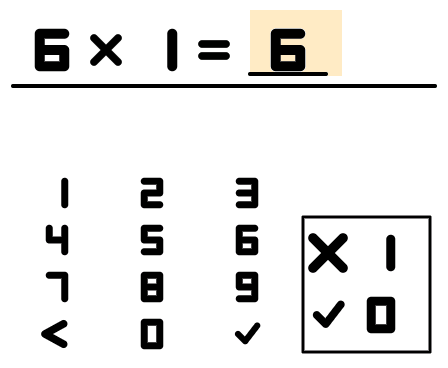
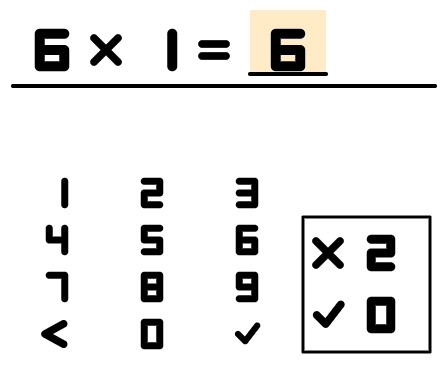
tables: the caret was hiding in the digit's own ink, and the wrong counter only heard half of what she typed
Five items from the owner testing the flashed board, each taken back to
evidence before being touched.

1. "The blinking cursor doesn't move when I type some numbers." It was
   moving - cursor_x_for_len(1) computed a real, distinct x - but a single
   typed digit renders CENTRED in the answer slot (question_slot_cx(), the
   same centre redraw_answer() draws it at), not left-aligned against the
   slot's own start. Measured: a centred "4" inks [x0+21, x0+54]; the old
   x0+QDIGIT_W+6 formula placed the caret at x0+42, squarely inside that
   span. The caret was landing inside the stroke it was supposedly sitting
   after, so nothing looked different. Fixed to follow the digit's actual
   right edge (question_slot_cx() + QDIGIT_W/2 + 6); measured after, the
   caret sits at x0+62, 8px clear of the digit's own ink.

2. "The highlighting of a correct answer reveals it's not centred
   properly." Measured on a resolved "6": the tint wash spanned the full
   ANSWER_BOX_W (92px, centre x0+45.5) while the digit centred on the
   narrower Q_SLOT_W reference (76px, centre x0+37.5) - an 8px bias. The
   underlying centring was never wrong; the wash disagreed with it. Fixed
   by tinting only Q_SLOT_W and leaving the cursor-clearance strip past it
   plain white regardless of tint - measured after, wash centre and digit
   centre both land on x0+37.5, 0px offset.

3. "The X and check icons aren't the same size." They shared one reach
[…]

Changed region(s): [[0.7188, 0.0299, 0.7812, 0.2092], [0.6875, 0.6277, 0.7812, 0.7473], [0.8125, 0.6277, 0.9062, 0.7473]]

diff --git a/devices/rp2350-amoled-1.8/emulator/wasm/tests/feature-tables.ts b/devices/rp2350-amoled-1.8/emulator/wasm/tests/feature-tables.ts
@@ -113,6 +113,20 @@ function grayAt(fb: Uint8Array, lx: number, ly: number): number {
   return ((v >> 5) & 0x3f) << 2;
 }
 
+// Byte-identical over a rect, at the grayscale resolution grayAt reads -
+// used both to prove a redraw left a region untouched and (the wrong-count
+// worked example below) to prove two DIFFERENT sequences that should land
+// on the same displayed value actually render pixel-for-pixel the same,
+// without needing to OCR a rendered digit.
+function rectUnchanged(a: Uint8Array, b: Uint8Array, x0: number, y0: number, w: number, h: number): boolean {
+  for (let ly = y0; ly < y0 + h; ly++) {
+    for (let lx = x0; lx < x0 + w; lx++) {
+      if (grayAt(a, lx, ly) !== grayAt(b, lx, ly)) return false;
+    }
+  }
+  return true;
+}
+
 const STEP_MS = 16; // matches app.h's dtMs convention used elsewhere in this suite
 let clock = 0;
 
@@ -311,6 +325,105 @@ async function main() {
       sawDark && sawLight, `sawDark=${sawDark} sawLight=${sawLight}`);
   }
 
+  // ---- after ONE digit, the caret sits clearly right of the digit's own
+  // ink, not inside it -------------------------------------------------------
+  //
+  // The owner's bug report: "the blinking cursor doesn't move when I type
+  // some numbers". It DID move (cursor_x_for_len(1) is a real x, distinct
+  // from cursor_x_for_len(0)) - it just landed inside the single typed
+  // digit's own centred ink, so nothing looked different. Candidate x's
+  // mirror CURSOR_X_CANDIDATES above (narrow/wide factor), computed the
+  // same way cursor_x_for_len(1) now is: question_slot_cx() + QDIGIT_W/2 + 6.
+  {
+    const CURSOR_X_LEN1_CANDIDATES = [
+      Q_SLOT_X0_NARROW + Q2W / 2 + QDIGIT_W / 2 + 6,
+      Q_SLOT_X0_WIDE + Q2W / 2 + QDIGIT_W / 2 + 6,
+    ];
+    const dev = await loadDevice();
+    await enterTables(dev, APP_TABLES);
+    pressCell(dev, digitCell(4));
+    let sawCursor = false;
+    for (let i = 0; i < 40; i++) {
+      clock += 16;
+      dev.tick(clock);
+      const fb = dev.fb();
+      for (const cx of CURSOR_X_LEN1_CANDIDATES) {
+        for (let ly = QROW_CY - 17; ly < QROW_CY + 17; ly++) {
+          if (grayAt(fb, cx, ly) < 180) sawCursor = true;
+        }
+      }
+    }
+    check("after one digit, the caret is visible clearly right of the digit's own ink", sawCursor,
+      `checked x in [${CURSOR_X_LEN1_CANDIDATES.join(",")}]`);
+  }
+
+  // ---- a resolved answer's highlight is actually centred on the digit ----
+  //
+  // The owner's bug report: "the highlighting of a correct answer reveals
+  // it's not centred properly". Measured before this fix: the tint wash
+  // spanned the full ANSWER_BOX_W (92px, x0..x0+91, centre x0+45.5) while
+  // the digit centred on the narrower Q_SLOT_W (76px) reference (centre
+  // x0+37.5) - an 8px bias. Sampling a wash-only row (above the digit's own
+  // ink) and the digit's own ink row and comparing their midpoints is a
+  // direct measurement of that bias, not just "some tint appeared".
+  {
+    const dev = await loadDevice();
+    await enterTables(dev, APP_TABLES);
+    typeDigits(dev, [6]); // the deterministic first question is 6 x 1 = 6
+    pressCell(dev, CELL_CHECK);
+    const fb = dev.fb();
+    function span(pred: (x: number) => boolean, xMin: number, xMax: number): [number, number] {
+      let first = -1, last = -1;
+      for (let lx = xMin; lx < xMax; lx++) { if (pred(lx)) { if (first < 0) first = lx; last = lx; } }
+      return [first, last];
+    }
+    const inkRow = QROW_CY;
+    const washRow = QROW_CY - 18; // above the digit's own ink, still inside the tinted box
+    const [inkL, inkR] = span((lx) => grayAt(fb, lx, inkRow) < 20, 200, 400);
+    const [washL, washR] = span((lx) => grayAt(fb, lx, washRow) < 248, 200, 400);
+    check("the resolved digit's own ink was found", inkL >= 0, `span [${inkL},${inkR}]`);
+    check("the tint wash was found", washL >= 0, `span [${washL},${washR}]`);
+    if (inkL >= 0 && washL >= 0) {
+      const inkMid = (inkL + inkR) / 2, washMid = (washL + washR) / 2;
+      const offset = Math.abs(inkMid - washMid);
+      check("the tint wash is centred on the digit it highlights (within 2px)", offset <= 2,
+        `ink centre ${inkMid}, wash centre ${washMid}, offset ${offset}px`);
+    }
+  }
+
+  // ---- worked example: the wrong counter counts every wrong SUBMISSION,
+  // not just the final give-up -----------------------------------------------
+  //
+  // The owner's bug report: "the count of wrong is not correct (doesn't add
+  // up)". Worked example, before this fix: type wrong (retry state) -
+  // wrongCount stays 0, no redraw. Type wrong again (gives up) - wrongCount
+  // becomes 1. Two actual wrong submissions, counter reads 1 - an asymmetry
+  // against correctCount, which already increments on every successful
+  // submission regardless of which attempt it lands on. After this fix:
+  // wrongCount becomes 1 on the FIRST wrong submission already (checked by
+  // comparing the counter row's own pixels right after entry against right
+  // after that first wrong submission - they must differ, which they did
+  // not before), then 2 on the second (same comparison against the
+  // first-wrong state).
+  {
+    const dev = await loadDevice();
+    await enterTables(dev, APP_TABLES);
+    const atEntry = dev.fb(); // wrong counter reads 0
+    typeDigits(dev, [9, 9]);
+    pressCell(dev, CELL_CHECK); // FIRST wrong attempt -> PHASE_WRONG_RETRY, not a give-up
+    const afterFirstWrong = dev.fb();
+    const changedAfterFirst = !rectUnchanged(atEntry, afterFirstWrong, COUNTER_ROW_X0, COUNTERS_Y0, COUNTER_ROW_W, COUNTER_ROW_H);
+    check("the wrong counter changes on the FIRST wrong attempt already, not only on the final give-up",
+      changedAfterFirst);
+
+    typeDigits(dev, [9, 9]);
+    pressCell(dev, CELL_CHECK); // SECOND wrong attempt -> gives up
+    const afterSecondWrong = dev.fb();
+    const changedAfterSecond = !rectUnchanged(afterFirstWrong, afterSecondWrong, COUNTER_ROW_X0, COUNTERS_Y0, COUNTER_ROW_W, COUNTER_ROW_H);
+    check("the wrong counter changes AGAIN on the second (give-up) attempt - two wrong submissions, two increments",
+      changedAfterSecond);
+  }
+
   // ---- the full-width rule under the question band stays UNBROKEN, even
   // after a keystroke redraws the answer box on top of the same row -------
   //
@@ -342,23 +455,13 @@ async function main() {
       gapAfter === -1, `first gap at x=${gapAfter}`);
   }
 
-  // ---- the wrong counter only counts a FINAL give-up, not every question
-  // resolution - a correct answer must not touch it -----------------------
+  // ---- a CORRECT answer never touches the wrong counter -------------------
   //
-  // The owner's drawing shows two explicit lines, a check and a cross;
-  // this app now counts them as "correct" and "wrong" rather than the
-  // earlier "attempted" (which incremented on EVERY resolution, right or
-  // wrong). Comparing the WRONG row's own pixels before and after a
-  // correct answer is a direct check of that semantic: byte-identical
-  // means a correct answer never touched it.
-  function rectUnchanged(a: Uint8Array, b: Uint8Array, x0: number, y0: number, w: number, h: number): boolean {
-    for (let ly = y0; ly < y0 + h; ly++) {
-      for (let lx = x0; lx < x0 + w; lx++) {
-        if (grayAt(a, lx, ly) !== grayAt(b, lx, ly)) return false;
-      }
-    }
-    return true;
-  }
+  // The owner's drawing shows two explicit lines, a check and a cross; this
+  // app counts them as "correct" and "wrong". A correct submission must
+  // never increment or redraw the wrong row, whichever attempt it lands
+  // on - comparing the WRONG row's own pixels before and after a correct
+  // answer is a direct check of that: byte-identical means untouched.
   {
     const probe = await loadDevice();
     await enterTables(probe, APP_TABLES);

diff --git a/devices/rp2350-amoled-1.8/firmware/apps/tables.c b/devices/rp2350-amoled-1.8/firmware/apps/tables.c
@@ -444,6 +444,18 @@ static uint16_t tint_wrong(void) { return rgb565(250, 232, 196); } // pale amber
 // at. W/T at or above 3 here keeps clear of it.
 #define COUNTER_ICON_CX_OFF 20
 #define COUNTER_ICON_R 15.0f
+// The cross needs its OWN reach, not COUNTER_ICON_R: draw_icon_multiply and
+// draw_icon_check both take a "reach" parameter, but it means a different
+// fraction of each glyph's own bounding box, so the SAME reach does not
+// produce the SAME apparent size. At reach=15, the check's own stroke
+// bounding box (including its t=0.26*reach thickness) is about 32x27px;
+// the cross's is a symmetric X whose bounding box (2*reach + 2*t, t =
+// 0.32*reach) is about 40x40px at the same reach - visibly bigger, exactly
+// the "the X and check aren't the same size" bug report. COUNTER_CROSS_R
+// is solved from the cross's own bounding-box formula for the width the
+// check already has at COUNTER_ICON_R (2*reach*1.32 = 31.8 => reach ~
+// 12.0), not copied from the check's reach.
+#define COUNTER_CROSS_R 12.0f
 #define COUNTER_NUM_CX_OFF 73
 #define COUNTER_DIGIT_W 30
 #define COUNTER_DIGIT_H 38
@@ -931,7 +943,19 @@ static void redraw_question(tables_state_t *s) {
 // which is correct for ink but would silently discard an actual tint.
 static void redraw_answer(tables_state_t *s, uint16_t tint, bool showCorrectValue) {
     int x0 = question_slot_x0(s), cx = question_slot_cx(s);
-    gfx_fill_rect_land(x0, ANSWER_BOX_Y0, ANSWER_BOX_W, ANSWER_BOX_H, tint);
+    // Tint only the visible slot (Q_SLOT_W, the same 76px reference every
+    // digit centres on below) - the extra Q_CURSOR_CLEARANCE strip past it
+    // is erase margin for the caret's own rightmost rest position, never
+    // part of the "answer box" a child reads, so it always stays plain
+    // white regardless of tint. Painting the whole ANSWER_BOX_W (92) with
+    // the tint made the wash's own visual centre sit 8px right of where
+    // every digit actually centres - measured on a resolved "6": wash
+    // spanned [x0, x0+91] (centre x0+45.5), the digit inked [x0+21,x0+54]
+    // (centre x0+37.5). That 8px bias is what "the highlight reveals it's
+    // not centred" was seeing - the underlying centring (on Q_SLOT_W) was
+    // always right, only the wash disagreed with it.
+    gfx_fill_rect_land(x0, ANSWER_BOX_Y0, Q_SLOT_W, ANSWER_BOX_H, tint);
+    gfx_fill_rect_land(x0 + Q_SLOT_W, ANSWER_BOX_Y0, ANSWER_BOX_W - Q_SLOT_W, ANSWER_BOX_H, PX_WHITE);
     if (showCorrectValue) {
         draw_number_lr(cx, QROW_CY, QDIGIT_W, QDIGIT_H, QDIGIT_T, fact_product(s->factIndex), false, PX_BLACK);
     } else if (s->answerLen > 0) {
@@ -975,7 +999,18 @@ static void redraw_answer(tables_state_t *s, uint16_t tint, bool showCorrectValu
 static int cursor_x_for_len(tables_state_t *s) {
     int x0 = question_slot_x0(s);
     if (s->answerLen <= 0) return x0 + 4;
-    if (s->answerLen == 1) return x0 + QDIGIT_W + 6;
+    if (s->answerLen == 1) {
+        // A single digit renders CENTRED in the whole slot (the same
+        // question_slot_cx() redraw_answer() draws it at), not left-aligned
+        // against x0 - the caret has to follow the digit's ACTUAL right
+        // edge or it lands inside the digit's own ink. Measured (owner's
+        // bug report, "the cursor doesn't move when I type some numbers"):
+        // a centred "4" inks [x0+21, x0+54]; the old x0+QDIGIT_W+6 (x0+42)
+        // sat squarely inside that span - the caret WAS moving, but into a
+        // spot the digit's own stroke covered, so nothing looked different.
+        int singleCx = x0 + Q2W / 2; // == question_slot_cx(s)
+        return singleCx + QDIGIT_W / 2 + 6;
+    }
     return x0 + Q_SLOT_W + 6;
 }
 
@@ -1042,7 +1077,7 @@ static void redraw_counter_row(int row, int iconKind, int value, bool padTo2) {
     int y = COUNTERS_Y0 + row * COUNTER_ROW_H;
     gfx_fill_rect_land(COUNTER_ROW_X0, y, COUNTER_ROW_W, COUNTER_ROW_H, PX_WHITE);
     int iconCx = COUNTER_ROW_X0 + COUNTER_ICON_CX_OFF, iconCy = y + COUNTER_ROW_H / 2;
-    if (iconKind == 0) draw_icon_cross(iconCx, iconCy, COUNTER_ICON_R, PX_BLACK);
+    if (iconKind == 0) draw_icon_cross(iconCx, iconCy, COUNTER_CROSS_R, PX_BLACK);
     else draw_icon_check(iconCx, iconCy, COUNTER_ICON_R, PX_BLACK);
     draw_number_lr(COUNTER_ROW_X0 + COUNTER_NUM_CX_OFF, iconCy, COUNTER_DIGIT_W, COUNTER_DIGIT_H,
                     COUNTER_DIGIT_T, value, padTo2, PX_BLACK);
@@ -1112,6 +1147,20 @@ static void resume_same_question(tables_state_t *s) {
 // a new question replaces it on screen. Getting it right on the retry
 // counts as correct: the point is recall, and a corrected recall is still
 // recall.
+//
+// THE WRONG COUNTER counts every wrong SUBMISSION now, not just the final
+// give-up - a real logic bug, not a display one, and an asymmetric one:
+// correctCount already incremented on every successful CHECK press,
+// whichever attempt it landed on, but wrongCount only incremented on the
+// SECOND wrong attempt, silently dropping the first. Worked example: wrong,
+// then wrong again (gives up) used to read wrongCount=1 for two actual
+// wrong submissions; wrong, then right on the retry used to read
+// correctCount=1, wrongCount=0 for one wrong submission and one right one -
+// two different counting units on the two counters is exactly what "the
+// count of wrong doesn't add up" was seeing. Both submissions increment
+// wrongCount now (redraw_wrong() called immediately on the retry too, not
+// only on give-up), so wrongCount+correctCount always equals the number of
+// CHECK presses that carried a digit, the same unit on both sides.
 static void resolve_answer(tables_state_t *s, uint32_t nowMs, bool correct) {
     s->attemptsOnQuestion++;
     if (correct) {
@@ -1123,6 +1172,8 @@ static void resolve_answer(tables_state_t *s, uint32_t nowMs, bool correct) {
         printf("tables: %d x %d = %d correct\r\n", fact_base(s->factIndex), fact_factor(s->factIndex), fact_product(s->factIndex));
         return;
     }
+    s->wrongCount++;
+    redraw_wrong(s);
     if (s->attemptsOnQuestion < 2) {
         redraw_answer(s, tint_wrong(), false); // her own wrong digits, on amber
         s->phase = PHASE_WRONG_RETRY;
@@ -1130,11 +1181,9 @@ static void resolve_answer(tables_state_t *s, uint32_t nowMs, bool correct) {
         printf("tables: wrong, retry\r\n");
         return;
     }
-    s->wrongCount++;
     redraw_answer(s, tint_wrong(), true); // reveal the correct product, still amber
     s->phase = PHASE_WRONG_REVEAL;
     s->phaseDeadlineMs = nowMs + REVEAL_MS;
-    redraw_wrong(s);
     printf("tables: %d x %d = %d, gave up after 2 tries\r\n", fact_base(s->factIndex), fact_factor(s->factIndex), fact_product(s->factIndex));
 }
 
